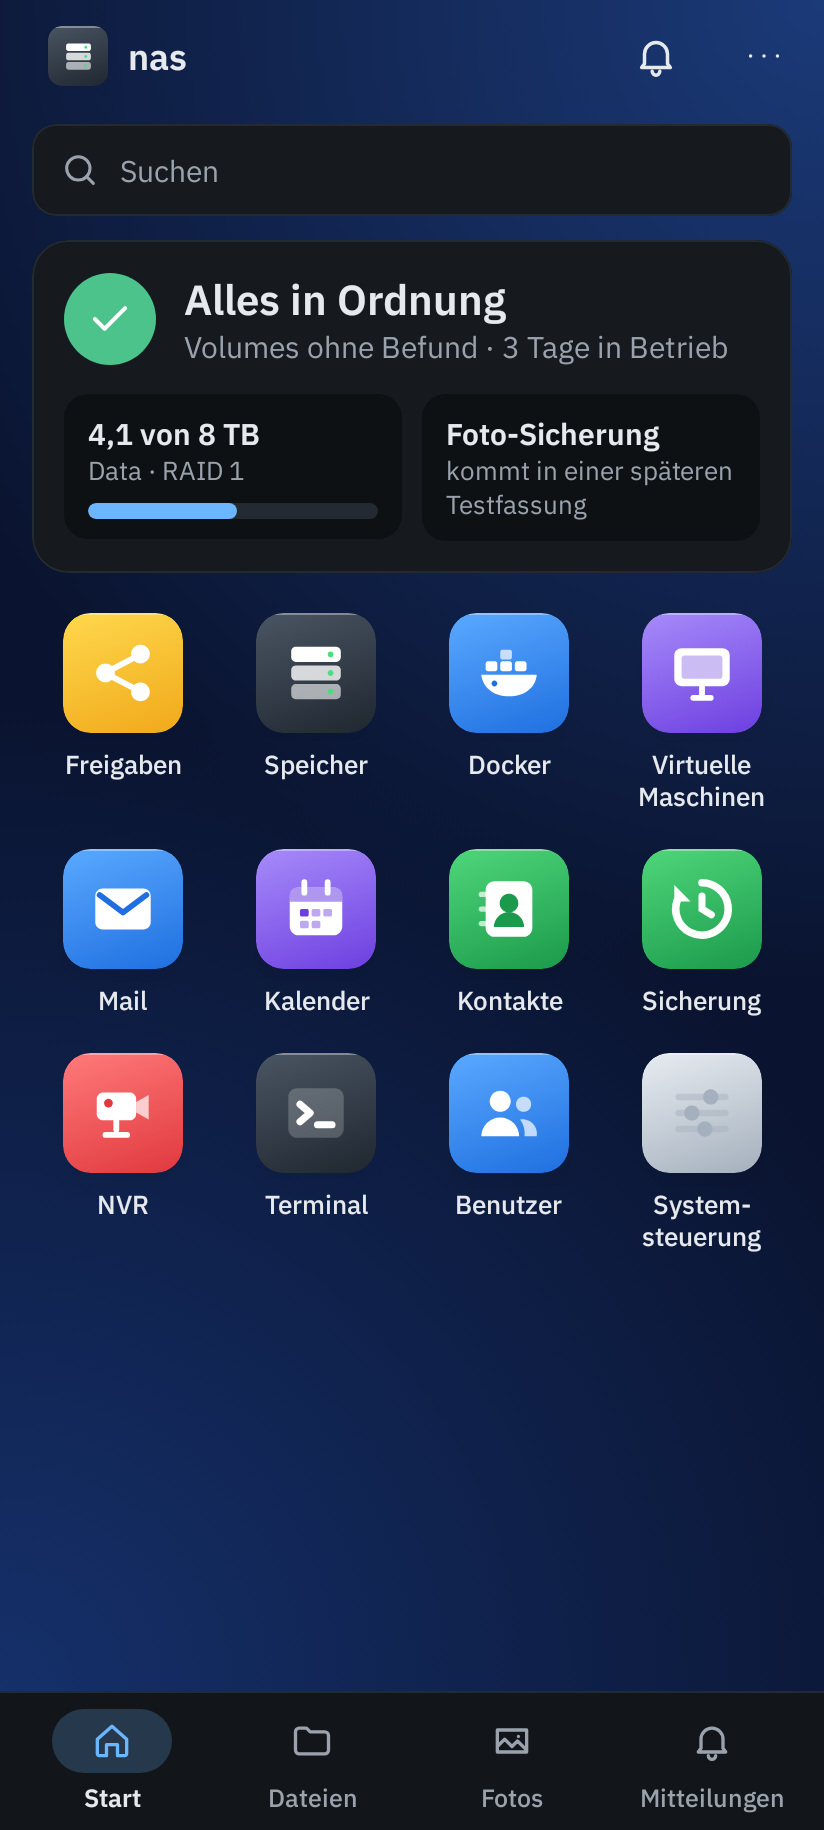
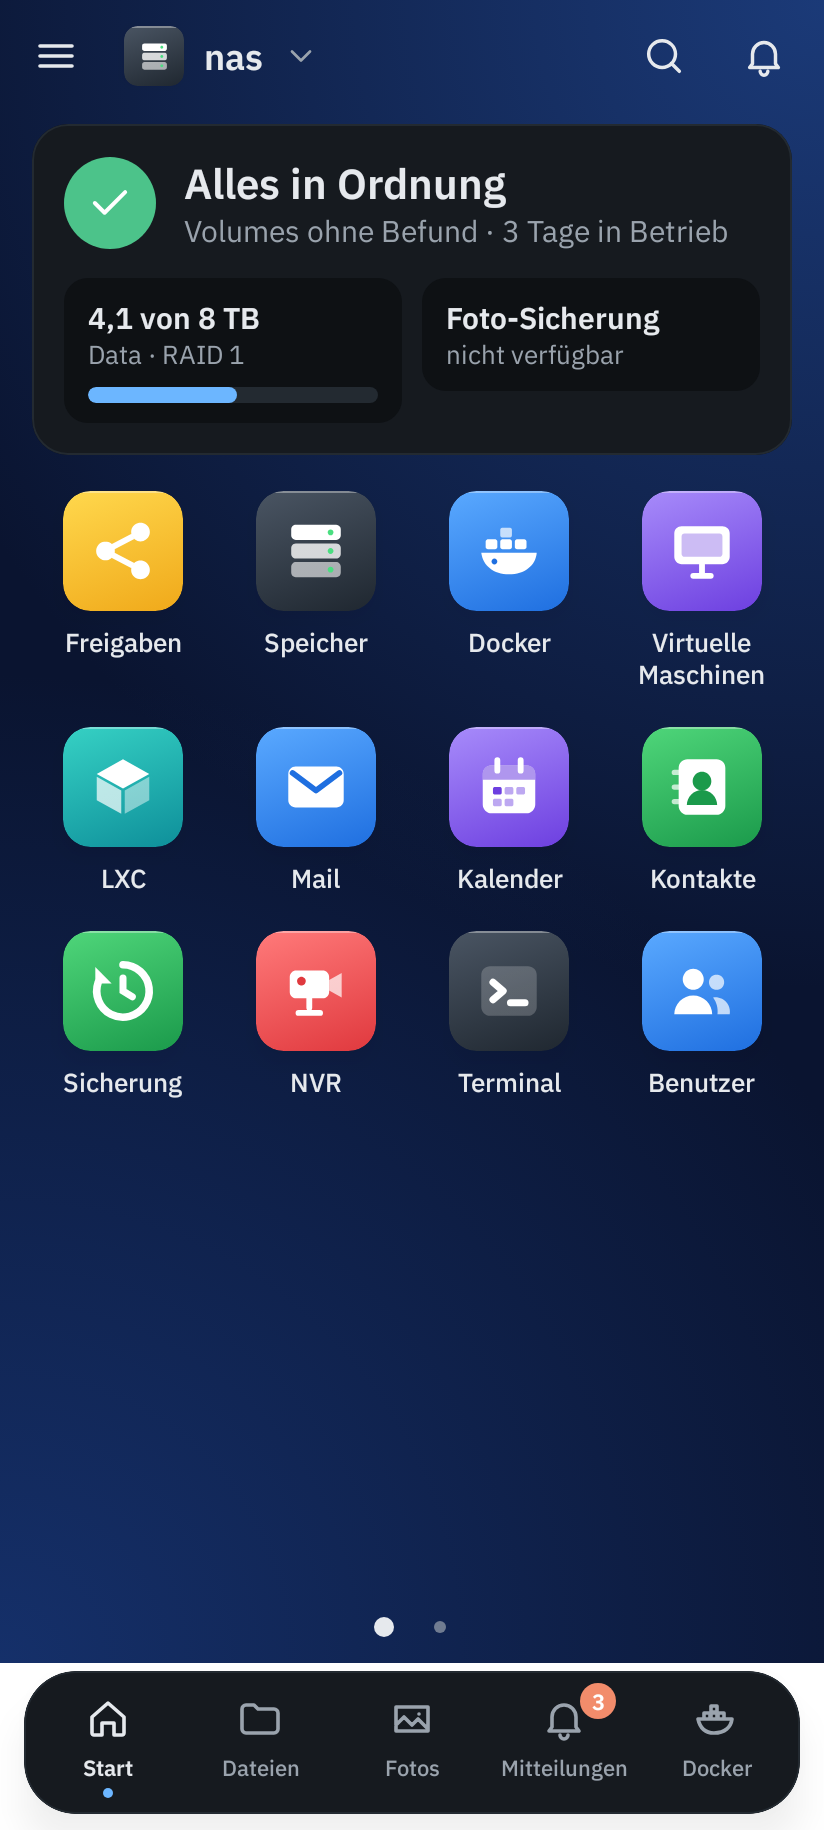
README und Versionshinweise 1.01: Startbildschirm, Dock, Seitenmenü, Haftungsausschluss
Wege über das Seitenmenü und die App-Einstellungen statt „Menü“, neuer
Abschnitt Haftungsausschluss, Bilder der Startseite mit Dock. In den
Versionshinweisen das Neue, was im Emulator und in Tests geprüft ist und
was vom Entwurf abweicht.

Claude-Session: https://claude.ai/code/session_017qpbYoMc8mJX8fx7977BzP

diff --git a/docs/releases/v1.1.0.md b/docs/releases/v1.1.0.md
@@ -51,10 +51,19 @@ Beide sind mit demselben Schlüssel signiert wie 1.00 (Zertifikat SHA-256 `636b5
 - **Emulator** (Android 17) gegen ein Test-NAS mit echtem `titand` und nachgebautem Modell:
   - Mitteilung im offenen Chat mit der veröffentlichten 1.00 nachgestellt: App aus den letzten Apps entfernt, der Prozess lief mit den Mitteilungen ohne Google weiter, App neu geöffnet, Frage im offenen Chat. Die Antwort kam als Mitteilung im Kanal der App (`agent-answers`), nicht vom NAS. Mit 1.01 derselbe Ablauf ohne Mitteilung; im Hintergrund kommt sie weiter.
   - Teilen → „Agent fragen“ und die Schnittstelle `…agent.ASK` öffnen einen neuen Chat mit dem Text im Feld, ohne zu senden.
+- **Startbildschirm, Dock, Seitenmenü (Unit- und Bildtests):** Modell wie `phone-home.ts` (Seiten, Umbruch nach Zellen, Ordner anlegen/umbenennen/herausnehmen/auflösen, Verschieben auch ohne Ziehen, × mit `hidden`, Widgets, Dock-Regeln mit fünf Plätzen und festem Start, Kennung `appcenter` ↔ Plugins), Lesen und Schreiben gegen ein nachgebautes NAS (nur `phone` in `androiddesktop` ersetzt, Felder des Arbeitsplatzes und unbekannte Felder bleiben, `desktop` bleibt unberührt, NAS ohne `androiddesktop` und 404 beim Schreiben: auf dem Gerät), der Arbeitsplatz hält ein `androiddesktop` mit nur `phone` nicht für eine eigene Einrichtung. Compose-Tests: langes Drücken, ×, „Bewegen …“, TalkBack-Aktion, „Fertig“, Ordner, Einrichtung des Webs, kein Bearbeiten vor dem Lesen, Zahl der Ungelesenen in Worten. Die echte Activity in Robolectric: Haftungsausschluss für eine gekoppelte Installation, Seitenmenü › App-Einstellungen › Startbildschirm und Dock, „Start“ und „Mitteilungen“ im Dock. Bilder in 412 dp und 900 dp, hell und dunkel, Dock bei 200 % Schrift.
+- **Emulator** (Android 17, 1080 × 2424) gegen das Test-NAS mit echtem `titand` (1.19) und nachgebautem Cluster:
+  - Koppeln über den Link: „Koppeln“ tut ohne Häkchen nichts, mit Häkchen koppelt es; danach fragt die App nicht noch einmal.
+  - Langes Drücken auf ein Symbol: Bearbeiten mit Wackeln. Ziehen von Kalender auf Kontakte ergibt einen Ordner, Ziehen verschiebt, ein am rechten Rand gehaltenes Symbol blättert weiter und legt am Ende eine neue Seite an. Widgets Speicher und Container über „Hinzufügen“. Nach „Fertig“ stand am NAS in `androiddesktop` nur `phone` mit genau dieser Anordnung; `desktop` blieb ohne `phone`.
+  - Dock in Docker: Container geöffnet, zweites Tippen auf „Docker“ führte zur Liste, „Start“ aus der Container-Seite sofort zur Startseite. „Dock immer anzeigen“ aus: in Docker kein Dock, auf der ersten Seite von Dateien eines; der Schalter stand danach am NAS. „Auf Werkseinstellung zurücksetzen“ schrieb den Werkszustand.
+  - Seitenmenü mit Konto (Besitzer), NAS und den Knoten des Clusters; Wahl von `nas-keller` setzte „· nas-keller“ in den Kopf, die Anfragen gingen über den Knoten (Protokoll des Test-NAS), die Einrichtung des Startbildschirms blieb am gekoppelten NAS.
+  - Bilder: Scratchpad der Sitzung, Ordner `stageB`.
 - **Nicht im Emulator geprüft:** die Foto-Sicherung mit einem echten Cluster-Knoten, die neue Mitteilung „… hochgeladen nach …“, Widget, Kachel, Notizen-App und Android Auto in der TitanOS-App.
 
 ## Bekannt und offen
 
+- **Startbildschirm:** Die Reihenfolge im Dock ändert man mit Pfeilen statt durch Ziehen. Ein Widget „Kamera“ wie im Entwurf 04 gibt es noch nicht. Ist „Dock immer anzeigen“ aus, steht das Dock außer auf der Startseite auch auf den ersten Seiten von Dateien, Fotos und Mitteilungen (wie in 1.00), sonst gäbe es dort keinen sichtbaren Weg zurück. Den Knoten nennt der Kopf nur, wenn ein anderer als das NAS selbst gewählt ist. Mit „Einrichtung des Webs übernehmen“ ist die Startseite nur zum Ansehen; Bearbeiten macht daraus zuerst eine eigene.
+- **Nicht geprüft:** Ziehen mit TalkBack und Schalter-Zugang auf einem echten Gerät, ein NAS vor 1.19 im Emulator (nur Unit-Test), der Haftungsausschluss nach einem Update von 1.00 auf einem echten Gerät (nur Robolectric; im Emulator war die App vorher nicht gekoppelt), die Uhr-Seite „Haftungsausschluss“.
 - **Selbst-Update 1.00 → 1.01** ist nur mit Tests geprüft, nicht auf einem echten Gerät.
 - Dateien, die am NAS gelöscht oder verschoben werden, nachdem die App sie gesichert hat, gelten in der App weiter als gesichert. Erst „Speicher freigeben“ fragt das NAS noch einmal.
 - Mit „Überspringen“ bei gleichem Namen zählt die Karte übersprungene Aufnahmen nicht als „wartet“. Sie sind nicht gesichert, das Raster zeigt sie mit der Wolke.
